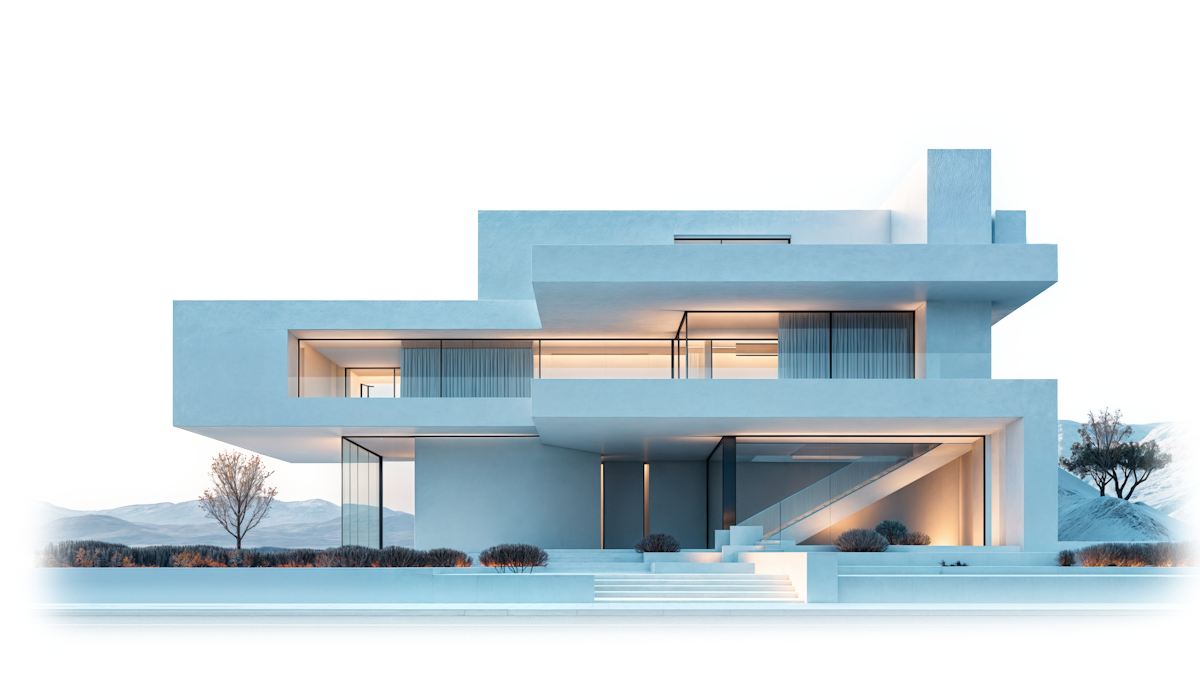
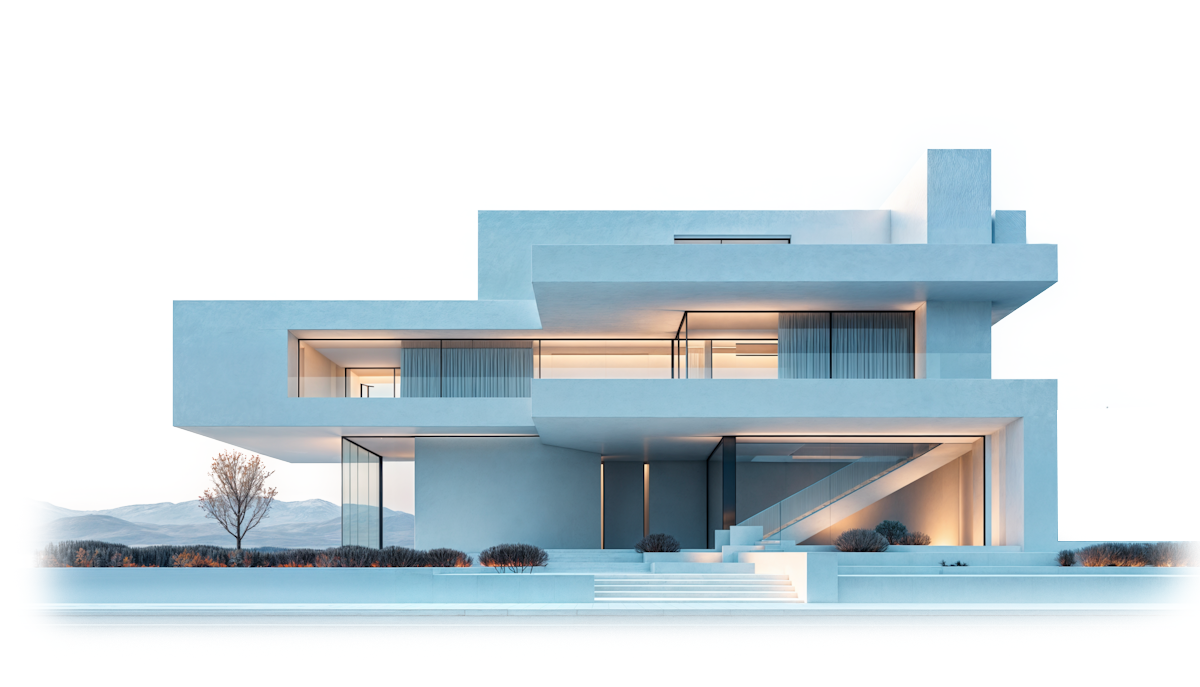
Close nav menu on outside click

Changed region(s): [[0.8633, 0.5808, 0.9867, 0.7948]]

diff --git a/assets/js/main.js b/assets/js/main.js
@@ -172,7 +172,11 @@ function setMenuOpen(open) {
 
 function handleMenuLinkClick(event) {
   const link = event.target.closest(".nav-menu__link");
-  if (!link) return;
+  if (!link) {
+    // Click landed on the empty overlay area — just close.
+    setMenuOpen(false);
+    return;
+  }
   event.preventDefault();
   setMenuOpen(false);
   const featureKey = link.dataset.featureLink;
